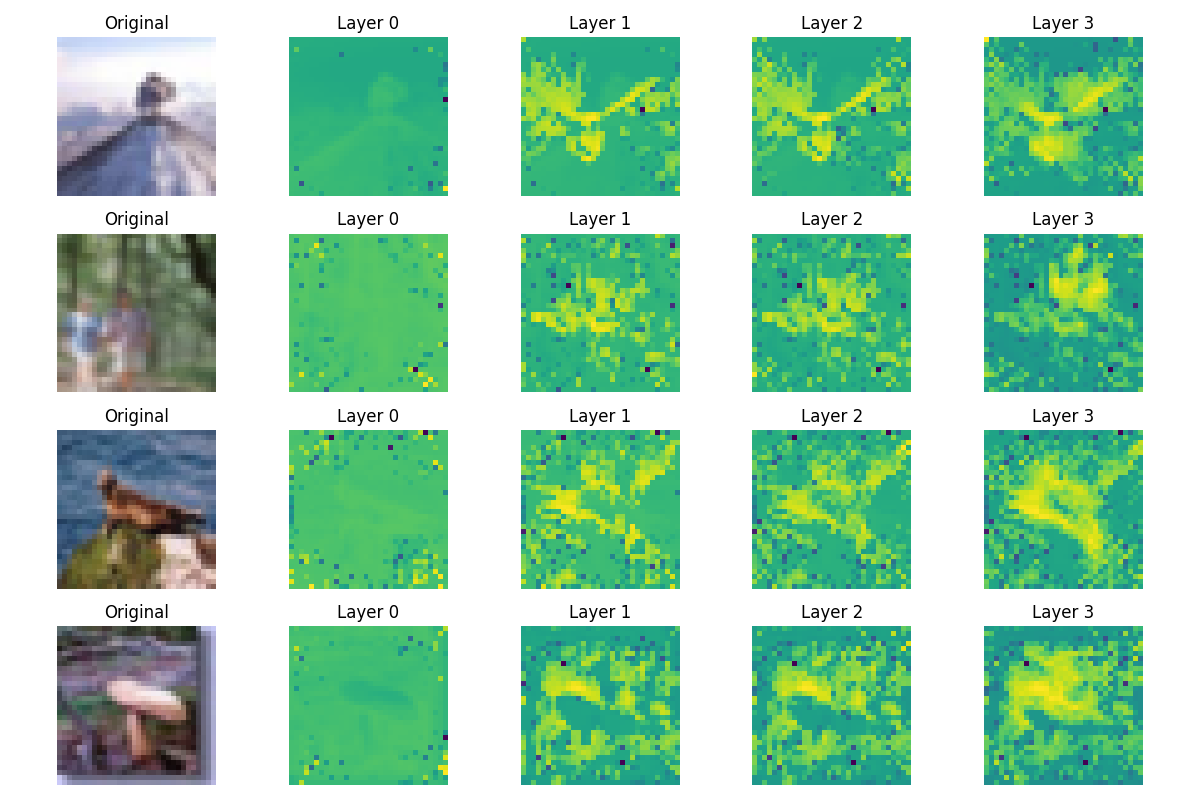
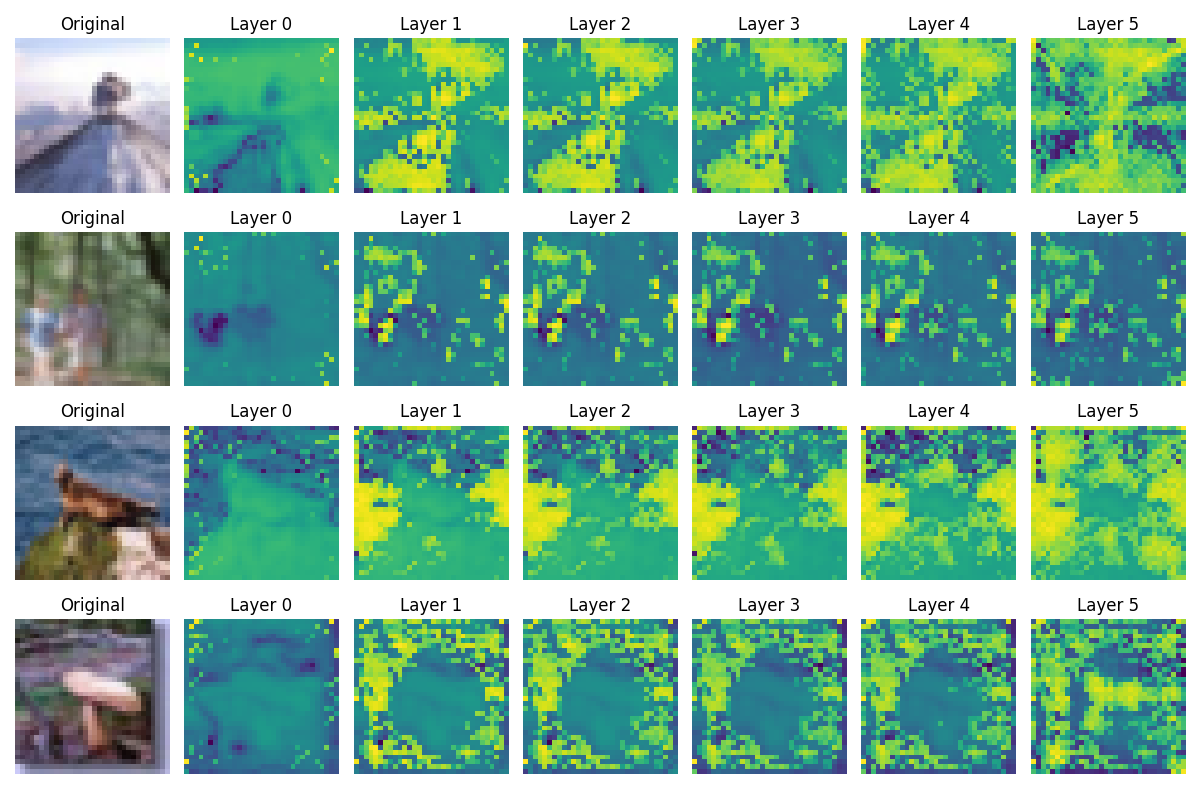
dropout makes intuitive sense for complex values now

diff --git a/src/layers.py b/src/layers.py
@@ -82,6 +82,15 @@ class LayerNorm(nn.Module):
         return (x - x.mean(dim=(1, 2, 3), keepdim=True)) / (
             x.std(dim=(1, 2, 3), keepdim=True) + 1e-6
         )
+    
+class PixelNorm(nn.Module):
+    def forward(
+        self,
+        x: Tensor,
+    ) -> Tensor:
+        return (x - x.mean(dim=1, keepdim=True)) / (
+            x.std(dim=1, keepdim=True) + 1e-6
+        )
 
 
 class ComplexProjection(nn.Module):
@@ -145,6 +154,24 @@ class ComplexPositionEncoding2D(nn.Module):
         positions = torch.stack(freq_bands, dim=1)  # B, C, H, W, 2
 
         return x * positions
+    
+class ComplexDropout(nn.Module):
+    def __init__(self, p: float):
+        super().__init__()
+        self.p = p
+
+    def forward(self, x: Tensor) -> Tensor:
+        if not self.training:
+            return x
+        else:
+            mask = torch.rand_like(x[..., 0]) > self.p
+            real = x[..., 0]
+            imag = x[..., 1]
+            
+            real = torch.where(mask, real, torch.ones_like(real))
+            imag = torch.where(mask, imag, torch.zeros_like(imag))
+
+            return torch.stack([real, imag], dim=-1)
 
 class MLP(nn.Module):
     def __init__(
@@ -172,11 +199,26 @@ class MLP(nn.Module):
 class ComplexAmplitude(nn.Module):
     def forward(self, x: Tensor) -> Tensor:
         return torch.norm(x, dim=-1)
+    
+class ComplexChannelScale(nn.Module):
+    def __init__(self, channels):
+        super().__init__()
+        self.channels = channels
+        self.scales = torch.ones(channels, 1, 1)
+        self.scales = torch.stack([self.scales, torch.zeros_like(self.scales)], dim=-1)
+        self.scales = nn.Parameter(self.scales)
+    
+    def forward(self, x: Tensor) -> Tensor:
+        return x * self.scales
 
-class Residual(nn.Module):
-    def __init__(self, layers):
+class WeightedResidual(nn.Module):
+    def __init__(self, layers, channels):
         super().__init__()
         self.layers = nn.Sequential(*layers)
+        self.ch_scale_a = ComplexChannelScale(channels)
+        self.ch_scale_b = ComplexChannelScale(channels)
+        
 
     def forward(self, x: Tensor) -> Tensor:
-        return x + self.layers(x)
+
+        return self.ch_scale_a(x) + self.ch_scale_b(self.layers(x))

diff --git a/scripts/train.py b/scripts/train.py
@@ -29,8 +29,8 @@ DEVICE = f"cuda:{gpu}" if torch.cuda.is_available() else "cpu"
 DTYPE = torch.float32
 
 args = dict(
-    blocks=4,
-    mlp_width=256,
+    blocks=6,
+    mlp_width=128,
     mlp_depth=3,
 )
 
@@ -38,7 +38,7 @@ config = dict(
     **args,
     batch_size=128,
     lr=1e-3,
-    data_augmentation=True,
+    data_augmentation=False,
 )
 
 EPOCHS = 1000
@@ -59,8 +59,6 @@ print(model)
 
 num_params = sum(p.numel() for p in model.parameters())
 print(f"{num_params:,} trainable parameters")
-
-# model = torch.compile(model, )
 
 config["num_params"] = num_params
 
@@ -106,10 +104,6 @@ test_loader = DataLoader(
 # Train the model
 optimizer = AdamW(model.parameters(), lr=config["lr"])
 
-@torch.compile()
-def optimizer_step():
-    optimizer.step()
-
 train_accuracy = 0
 test_accuracy = 0
 for epoch in range(EPOCHS):
@@ -119,7 +113,7 @@ for epoch in range(EPOCHS):
     total = 0
     correct = 0
     losses = []
-    for images, labels in pbar:
+    for step, (images, labels) in enumerate(pbar):
         optimizer.zero_grad()
 
         images, labels = images.to(DEVICE), labels.to(DEVICE)
@@ -129,15 +123,16 @@ for epoch in range(EPOCHS):
 
         _, predicted = torch.max(predictions, dim=1)
 
-        total += labels.shape[0]
-        correct += (predicted == labels).sum().item()
+        if step > len(train_loader) * 0.9:
+            total += labels.shape[0]
+            correct += (predicted == labels).sum().item()
 
         loss = loss_function(predictions, labels)
 
         losses.append(loss.item())
         loss.backward()
 
-        optimizer_step()
+        optimizer.step()
 
         pbar.set_description(
             f"Epoch {epoch} | Train Loss: {loss.item():.4f} | Train Err: {1 - train_accuracy:.2%} | Test Err: {1 - test_accuracy:.2%}"

diff --git a/src/model.py b/src/model.py
@@ -9,8 +9,10 @@ from .layers import (
     ComplexPool,
     ComplexProjection,
     LayerNorm,
-    Residual,
+    PixelNorm,
+    WeightedResidual,
     ComplexPositionEncoding2D,
+    ComplexDropout,
 )
 
 
@@ -34,19 +36,20 @@ class Spectracles(nn.Module):
             nn.Conv2d(input_channels, mlp_width, kernel_size=1),
             ComplexProjection(),
         )
-        # self.mlp = MLP(mlp_width, mlp_width, mlp_depth)
 
         self.mid_layers = nn.Sequential()
         for _ in range(blocks):
             self.mid_layers.extend(
                 [
-                    Residual(
+                    WeightedResidual(
                         (
                             LayerNorm(),
                             FourierTransform(dim=(2,3)),
+                            ComplexDropout(0.1),
                             ComplexPositionEncoding2D(),
                             MLP(mlp_width, mlp_width, mlp_depth),
-                        )
+                        ),
+                        mlp_width,
                     )
                 ]
             )

diff --git a/scripts/visualize_activations.py b/scripts/visualize_activations.py
@@ -14,8 +14,8 @@ with torch.no_grad():
     DEVICE = "cuda" if torch.cuda.is_available() else "cpu"
 
     args = dict(
-        blocks=4,
-        mlp_width=256,
+        blocks=6,
+        mlp_width=128,
         mlp_depth=3,
     )
 
@@ -29,7 +29,7 @@ with torch.no_grad():
     weights_path = Path("spectracles/weights")
 
     model = Spectracles(num_classes=100, input_channels=3, **args)
-    model.load_state_dict(torch.load(weights_path / "005.ckpt"))
+    model.load_state_dict(torch.load(weights_path / "006.ckpt"))
     model = model.to(DEVICE)
     model = model.to(DTYPE)
     model = model.eval()
@@ -37,7 +37,7 @@ with torch.no_grad():
     activations = {}
     def get_activation(name):
         def hook(model, input, output):
-            activations[name] = torch.norm(output[:, 1], dim=-1).cpu()
+            activations[name] = torch.norm(output[:, 0], dim=-1).cpu()
         return hook
         
     for name, layer in model.mid_layers.named_children():

diff --git a/scripts/complex_norm.py b/scripts/complex_norm.py
@@ -1,0 +1,16 @@
+import torch
+import matplotlib.pyplot as plt
+
+skewed = torch.randn(100, 2)
+skewed[:, 1] = 0.1 * skewed[:, 0] + 0.3 * skewed[:, 1]
+plt.scatter(skewed[:, 0], skewed[:, 1], c='r')
+
+# normed = (skewed - skewed.mean(dim=0, keepdim=True)) / skewed.std(dim=0, keepdim=True)
+# plt.scatter(normed[:, 0], normed[:, 1], c='b')
+
+c_skewed = torch.view_as_complex(skewed)
+c_normed = (c_skewed - c_skewed.mean(dim=0, keepdim=True)) / c_skewed.std(dim=0, keepdim=True)
+plt.scatter(c_normed.real, c_normed.imag, c='b')
+
+plt.axis('scaled')
+plt.savefig("spectracles/norm.png")
